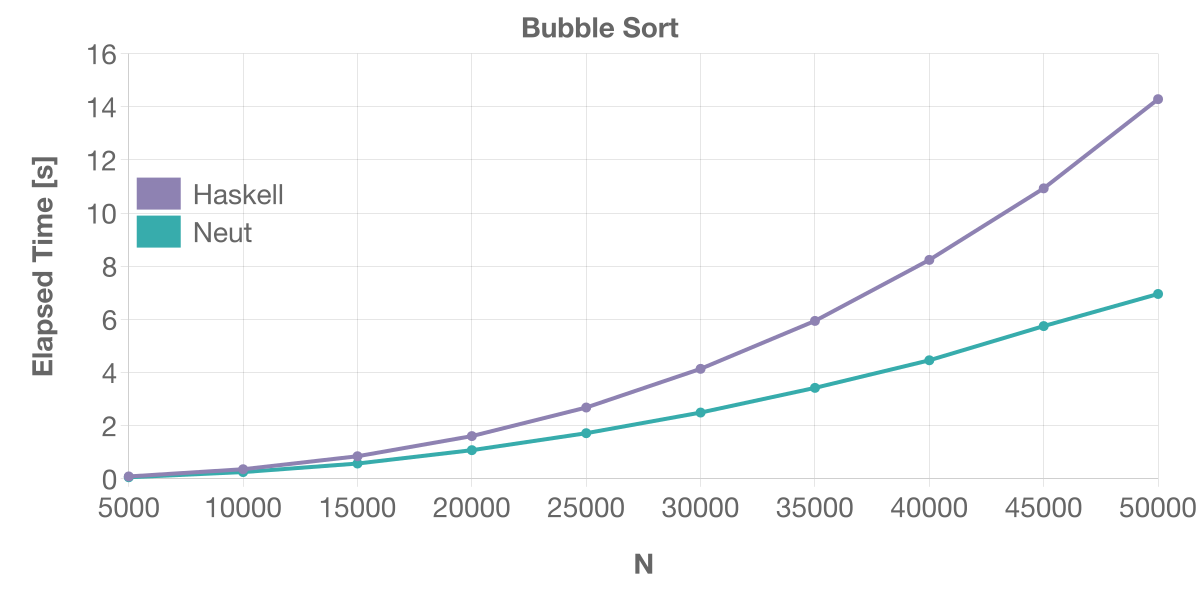
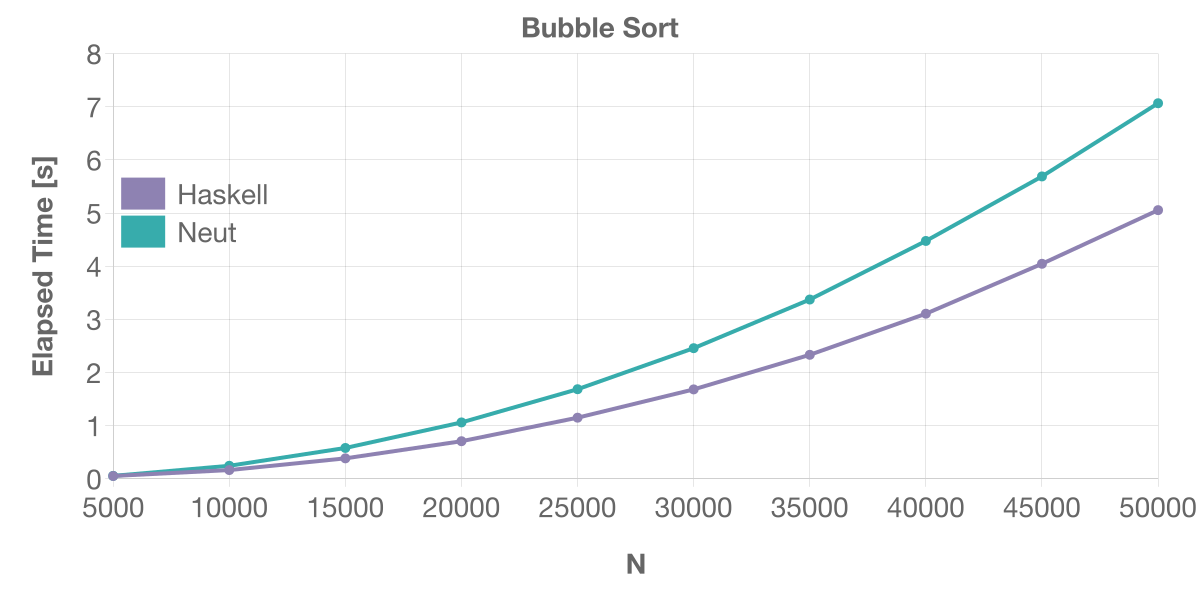
docs: update benchmark results for bubble sort

diff --git a/book/src/benchmarks.md b/book/src/benchmarks.md
@@ -11,7 +11,7 @@ You can find the source files for the following benchmarks [here](https://github
 
 ## Bubble Sort
 
-This test creates a random list of length `N` and performs bubble-sort on the list.
+This test creates a random list of length `N` and performs bubble-sort on the list[^bubble].
 
 ### Linux (AMD64)
 
@@ -66,3 +66,7 @@ just bench-darwin arm64-darwin # macOS (ARM64)
 You may want to read [the Dockerfile in the repository](https://github.com/vekatze/neut/blob/main/build/Dockerfile) to get the list of additional dependencies for running benchmarks. The list includes npm, hyperfine, etc.
 
 Please tell me (hopefully gently) if some of the results are unfair because of reasons I overlooked.
+
+---
+
+[^bubble]: I honestly don't know why the Haskell version is faster here on macOS. Please let me know if you happen to see why.
